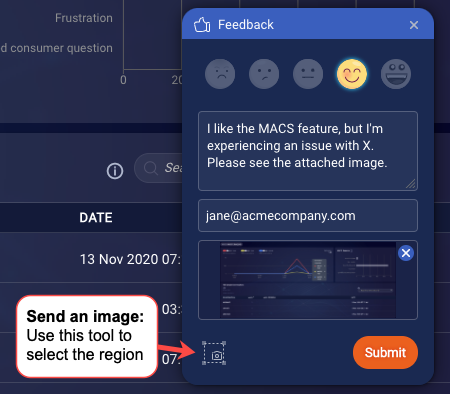
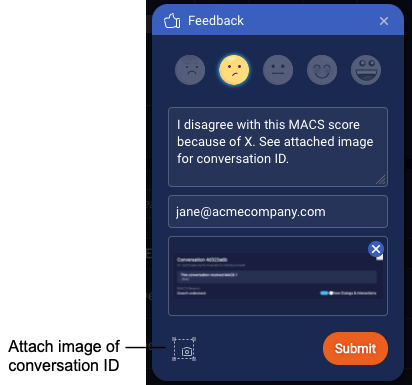
Update MACS doc

diff --git a/pages/Documents/Hidden/Hidden/meaningful-automation-conversation-score.md b/pages/Documents/Hidden/Hidden/meaningful-automation-conversation-score.md
@@ -8,23 +8,9 @@ indicator: both
 layout: hidden-layout
 ---
 
-### About this Beta release
+### Introduction
 
-LivePerson is pleased to announce the Beta release of the Meaningful Automation Conversation Score or MACS, which is a new measure of bot performance.
-
-#### Sending feedback
-
-Your feedback about this Beta feature is important to us, and you can send it to us in two ways. 
-
-First, while you’re working with MACS, if you experience an issue, you can quickly send it to us -- right from where you are in the application: Use the **Feedback** widget in the lower-right corner.
-
-<img style="width:400px" src="img/ConvoBuilder/macs_feedback1.png">
-
-The **Feedback** widget lets you describe the issue that you’re experiencing and optionally include a screenshot.
-
-<img style="width:400px" src="img/ConvoBuilder/macs_feedback2.png">
-
-Second, after you’ve spent some time using MACS, we encourage you to send feedback via [this Google survey](https://docs.google.com/forms/d/e/1FAIpQLSeD-lc-4e_HhWqPMzufGd7fhNAWGTITGpCT9XKdK5NmpfLMPw/viewform). The survey captures valuable information about your experience and helps us to identify areas for enhancement.
+LivePerson is pleased to announce the *Beta release* of the Meaningful Automation Conversation Score or MACS, which is a new measure of bot performance.
 
 ### What is a MACS?
 
@@ -53,8 +39,8 @@ An average score (a floating number) is also calculated for each bot to indicate
 Scoring like this makes it fast and easy to understand how efficient and fluid a bot conversation was, and a bot’s performance overall. With this knowledge, you can take action and tune your low-performing bots for improved performance.
 
 #### Constraints and caveats
-
-MACS scoring is only available for bots built in Conversation Builder. For a third-party bot, “N/A” for “Not Applicable” is displayed as the MACS.
+* MACS scoring is only available for the North America region, and only for Messaging, not for Chat.
+* MACS scoring is only available for bots built in Conversation Builder. For a third-party bot, “N/A” for “Not Applicable” is displayed as the MACS.
 
 ### Why use the MACS?
 
@@ -110,25 +96,25 @@ A MACS is only calculated for closed conversations.<br><br>A MACS doesn't detect
 
 A MACS has a correlation of ~.7 with human judgment. While this is quite good, expect the algorithm to make some classification mistakes from time to time. The strength of MACS comes from looking at the scores in aggregate, where one aspect is in common (e.g., the same error is detected, or the conversations included a specific interaction or intent).
 
-### Enable or disable MACS
+### Display or hide MACS data
 
-MACS is a self-service feature that you can enable or disable at any time. 
+MACS is a self-service feature that you can display (turn on) or hide (turn off) at any time. 
 
 {: .important}
-Before enabling MACS, please consult with your LivePerson account representative.
+Before turning on MACS, please consult with your LivePerson account representative.
 
-If you disable MACS, be aware that this only hides the display of the feature in the user interface. MACS scoring of bot conversations still takes place behind the scenes.
+If you hide MACS data, be aware that this only hides the display of the feature and the data in the user interface. MACS scoring of bot conversations still takes place behind the scenes.
 
-**To enable or disable MACS**
+**To display or hide MACS data**
 
 1. From the Conversational AI dashboard of applications, select **Bot Accounts**.
 2. On the **Bot Accounts** tab, select your organization name.
 3. On the **Account Details** tab, do either of the following:
 
-    * To display MACS data, enable (turn on) the **Display Meaningful Automation Conversation Score (MACS)** setting.
-    * To hide MACS data, disable (turn off) the **Display Meaningful Automation Conversation Score (MACS)** setting.
+    * To display MACS data, turn on the **Display Meaningful Automation Conversation Score (MACS)** setting.
+    * To hide MACS data, turn off the **Display Meaningful Automation Conversation Score (MACS)** setting.
 
-### Using the MACS in Bot Analytics
+### Using MACS in Bot Analytics
 
 #### Watch the video
 <div style="display: block; position: relative; max-width: 70%;margin:0 auto;"><div style="padding-top: 56.25%;"><iframe src="https://player.vimeo.com/video/486697904" allowfullscreen="" webkitallowfullscreen="" mozallowfullscreen="" style="width: 100%; height: 100%; position: absolute; top: 10px; bottom: 0px; right: 0px; left: 0px;"></iframe></div></div>
@@ -200,3 +186,46 @@ Then click the associated interaction link that appears for the interaction that
 This opens the bot in Conversation Builder and displays that interaction in the dialog editor. You can then tune the bot right at the failure point, for improved performance.
 
 <img style="width:800px" src="img/ConvoBuilder/macs_tune_bot.png">
+
+### FAQs
+
+#### For one of my bots, the Conversations metric doesn’t equal the sum of all conversations that received a MACS 1, 2 and 3. Why is this?
+
+On the bot's Overview page, the Conversations metric represents the total number of closed and open Conversational Cloud conversations in which the bot participated.
+
+On the bot’s MACS page, the counts of conversations receiving a MACS 1, 2 and 3 are for closed conversations.
+
+<img style="width:600px" src="img/ConvoBuilder/macs_closed.png">
+
+Since a MACS isn’t calculated for open conversations, the two metrics can be different at times.
+
+#### In the Sample Conversations, I see conversations that have a MACS score, but the MACS reason is blank. How can a score be assigned to a conversation if there are no reasons?
+
+The MACS reasons point towards issues with the bot’s responses. If there are no issues detected, the conversation typically will have higher quality and will receive a MACS of 3. There will be exceptions to this, as our reasons do not capture all possible issues and do not have perfect accuracy.
+
+#### I set a filter to show sample conversations where the bot didn’t understand (MACS Reason = Doesn’t understand). But in the sample conversations, I see conversations where other MACS reasons are found too. Why is this?
+
+A single conversation can have multiple MACS reasons found within it. So if you filter the results using one MACS reason (or a few), you might see conversations that include those reasons as well as others.
+
+### Sending feedback
+
+Your feedback about this Beta feature is important to us, and you can send it to us in two ways:
+
+* Send MACS score-related feedback using the **Feedback** widget
+* Send overall feedback using [this survey](https://docs.google.com/forms/d/e/1FAIpQLSeD-lc-4e_HhWqPMzufGd7fhNAWGTITGpCT9XKdK5NmpfLMPw/viewform)
+
+#### Sending score-related feedback
+
+LivePerson is interested in hearing your feedback regarding MACS scoring. After reviewing a conversation transcript, please let us know whether you agree with the calculated score. And if you didn't agree, please let us know why.
+
+You can quickly and easily provide this feedback using the **Feedback** widget that's available in the lower-right corner of the screen.
+
+<img style="width:800px" src="img/ConvoBuilder/macs_feedback1.png">
+
+The **Feedback** widget lets you rate the experience on a scale of 1 to 5 (Did you agree with the score?), and it provides an area where you can explain your rating (If you didn't agree, why?). So we can trace your feedback back to the conversation, include a screenshot that shows the conversation ID.
+
+<img style="width:400px" src="img/ConvoBuilder/macs_feedback2.png">
+
+#### Sending overall feedback
+
+After you’ve spent some time using MACS, we encourage you to send feedback via [our survey](https://docs.google.com/forms/d/e/1FAIpQLSeD-lc-4e_HhWqPMzufGd7fhNAWGTITGpCT9XKdK5NmpfLMPw/viewform). The survey captures valuable information about your experience and helps us to identify areas for enhancement.
